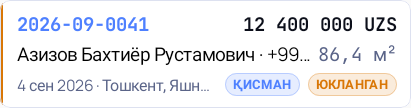
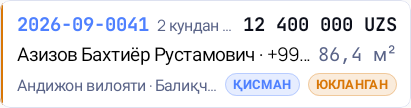
Feat(android) · give the order card's address room to breathe
The address shared the last row with the scheduled date and both chips, so
it took whatever the chips left — roughly 40% of the width. Addresses are
written by the web AddressInput as "<Viloyat>, <Tuman>, <street>", which is
routinely 40-60 characters, so the province and district were being cut off
on almost every row. Date and address were also concatenated into one string,
so the ellipsis ate the address from the right.

Move the scheduled date up beside the order number, where there is slack, and
hand the whole of the last row to the address.

formatAddressLine joins the stored parts with the card's own "·" separator,
which leaves the street last: when the row does run out of width the street
truncates and the province and district survive. Addresses written before that
widget existed carry no comma and pass through unchanged.

formatScheduleDate reads a scheduled date the way a list sorted by scheduledAt
is actually scanned — "бугун", "эртага", "3 кундан кейин" inside a week, then
an absolute date, carrying the year only when it is not the current one. The
year was previously repeated on every row, once here and once in the order
number.

OrderCard takes `now` so the screenshot baseline does not change meaning with
the day it is recorded on; the baseline address is now a canonical long one.

Changed region(s): [[0.0292, 0.7222, 0.5255, 0.8611], [0.3796, 0.1667, 0.5547, 0.3333]]

diff --git a/android/core/ui/src/test/kotlin/uz/etalon/crm/core/ui/format/FormattersTest.kt b/android/core/ui/src/test/kotlin/uz/etalon/crm/core/ui/format/FormattersTest.kt
@@ -28,4 +28,51 @@ class FormattersTest {
         assertEquals("5 сен 2026", formatDate(t))
         assertEquals("5 сен 2026, 04:30", formatDateTime(t))
     }
+
+    // 12:00 on 7 Sep 2026 in Tashkent — every case below is relative to this instant.
+    private val now = Instant.parse("2026-09-07T07:00:00Z")
+    private fun day(d: String) = Instant.parse("${d}T07:00:00Z")
+
+    @Test fun `a scheduled date inside the week reads as how soon, not which day`() {
+        assertEquals("бугун", formatScheduleDate(day("2026-09-07"), now))
+        assertEquals("эртага", formatScheduleDate(day("2026-09-08"), now))
+        assertEquals("кеча", formatScheduleDate(day("2026-09-06"), now))
+        assertEquals("3 кундан кейин", formatScheduleDate(day("2026-09-10"), now))
+        assertEquals("7 кундан кейин", formatScheduleDate(day("2026-09-14"), now))
+        assertEquals("4 кун олдин", formatScheduleDate(day("2026-09-03"), now))
+    }
+
+    @Test fun `beyond the week it is absolute, and carries the year only when it differs`() {
+        assertEquals("15 сен", formatScheduleDate(day("2026-09-15"), now))       // 8 days out
+        assertEquals("7 кун олдин", formatScheduleDate(day("2026-08-31"), now))  // 7 back is still relative…
+        assertEquals("30 авг", formatScheduleDate(day("2026-08-30"), now))       // …8 back is not
+        assertEquals("15 мар 2027", formatScheduleDate(day("2027-03-15"), now))
+        assertEquals("20 дек 2025", formatScheduleDate(day("2025-12-20"), now))
+    }
+
+    @Test fun `relative days are counted in Tashkent time, not UTC`() {
+        // 23:30 UTC on 7 Sep is already 04:30 on 8 Sep in Tashkent (+05) — tomorrow, not today.
+        assertEquals("эртага", formatScheduleDate(Instant.parse("2026-09-07T23:30:00Z"), now))
+    }
+
+    @Test fun `an address keeps province and district ahead of the street, so the street truncates first`() {
+        assertEquals(
+            "Андижон вилояти · Балиқчи тумани · Бобур кўчаси 14",
+            formatAddressLine("Андижон вилояти, Балиқчи тумани, Бобур кўчаси 14"),
+        )
+        assertEquals("Андижон вилояти · Балиқчи тумани", formatAddressLine("Андижон вилояти, Балиқчи тумани"))
+    }
+
+    @Test fun `an address written before the widget existed passes through unchanged`() {
+        assertEquals("Samarkand · Registan", formatAddressLine("Samarkand · Registan"))
+        assertEquals("Navoi · Center", formatAddressLine("Navoi · Center"))
+    }
+
+    @Test fun `a missing or empty address is nothing to render, not an empty separator`() {
+        assertEquals(null, formatAddressLine(null))
+        assertEquals(null, formatAddressLine(""))
+        assertEquals(null, formatAddressLine("   "))
+        assertEquals(null, formatAddressLine(" , , "))
+        assertEquals("Тошкент шаҳри", formatAddressLine("Тошкент шаҳри, , "))  // trailing blanks dropped
+    }
 }

diff --git a/android/feature/orders/src/main/kotlin/uz/etalon/crm/feature/orders/list/OrderCard.kt b/android/feature/orders/src/main/kotlin/uz/etalon/crm/feature/orders/list/OrderCard.kt
@@ -12,14 +12,26 @@ import androidx.compose.ui.unit.dp
 import uz.etalon.crm.core.designsystem.components.*
 import uz.etalon.crm.core.designsystem.theme.EtalonType
 import uz.etalon.crm.core.model.OrderSummary
-import uz.etalon.crm.core.ui.format.formatDate
+import uz.etalon.crm.core.ui.format.formatAddressLine
 import uz.etalon.crm.core.ui.format.formatPhone
+import uz.etalon.crm.core.ui.format.formatScheduleDate
+import java.time.Instant
 
+/**
+ * The scheduled date sits on the order-number row rather than beside the address,
+ * so the whole of the last row's free width belongs to the address. Sharing that row
+ * meant the address — the longest and most variable field on the card — was left with
+ * whatever the two chips did not take, and the canonical "<Viloyat>, <Tuman>, <street>"
+ * form is far longer than that.
+ *
+ * [now] is a parameter so a screenshot baseline is not hostage to the day it is recorded.
+ */
 @Composable
-fun OrderCard(o: OrderSummary, onClick: () -> Unit) {
+fun OrderCard(o: OrderSummary, now: Instant = Instant.now(), onClick: () -> Unit) {
     StatusStripeCard(stripe = toneColor(orderStatusTone(o.status)), onClick = onClick) {
-        Row(Modifier.fillMaxWidth(), verticalAlignment = Alignment.CenterVertically) {
-            Text(o.orderNumber, style = EtalonType.monoBody.copy(fontWeight = FontWeight.Bold), color = MaterialTheme.colorScheme.primary, modifier = Modifier.weight(1f))
+        Row(Modifier.fillMaxWidth(), verticalAlignment = Alignment.CenterVertically, horizontalArrangement = Arrangement.spacedBy(8.dp)) {
+            Text(o.orderNumber, style = EtalonType.monoBody.copy(fontWeight = FontWeight.Bold), color = MaterialTheme.colorScheme.primary)
+            Text(formatScheduleDate(o.scheduledAt, now), style = MaterialTheme.typography.bodySmall, color = MaterialTheme.colorScheme.onSurfaceVariant, modifier = Modifier.weight(1f), maxLines = 1, overflow = TextOverflow.Ellipsis)
             MoneyText(o.totalPrice, style = EtalonType.monoBody.copy(fontWeight = FontWeight.Bold))
         }
         Spacer(Modifier.height(4.dp))
@@ -29,7 +41,7 @@ fun OrderCard(o: OrderSummary, onClick: () -> Unit) {
         }
         Spacer(Modifier.height(6.dp))
         Row(Modifier.fillMaxWidth(), verticalAlignment = Alignment.CenterVertically, horizontalArrangement = Arrangement.spacedBy(8.dp)) {
-            Text(formatDate(o.scheduledAt) + (o.client.address?.let { " · $it" } ?: ""), style = MaterialTheme.typography.bodySmall, color = MaterialTheme.colorScheme.onSurfaceVariant, modifier = Modifier.weight(1f), maxLines = 1, overflow = TextOverflow.Ellipsis)
+            Text(formatAddressLine(o.client.address).orEmpty(), style = MaterialTheme.typography.bodySmall, color = MaterialTheme.colorScheme.onSurfaceVariant, modifier = Modifier.weight(1f), maxLines = 1, overflow = TextOverflow.Ellipsis)
             PaymentChip(o.paymentState)
             StatusChip(o.status)
         }

diff --git a/android/core/ui/src/main/kotlin/uz/etalon/crm/core/ui/format/Formatters.kt b/android/core/ui/src/main/kotlin/uz/etalon/crm/core/ui/format/Formatters.kt
@@ -5,6 +5,7 @@ import java.math.BigDecimal
 import java.math.RoundingMode
 import java.time.Instant
 import java.time.ZoneId
+import java.time.temporal.ChronoUnit
 
 /** House number format (spec §6.5): space thousands, comma decimal, unit suffix.
  *  Device ICU is deliberately not used — the server does the same. */
@@ -51,4 +52,39 @@ fun formatDate(t: Instant): String {
 fun formatDateTime(t: Instant): String {
     val z = t.atZone(TASHKENT)
     return "${formatDate(t)}, ${"%02d".format(z.hour)}:${"%02d".format(z.minute)}"
+}
+
+/**
+ * A scheduled date as it is read in a list sorted by `scheduledAt`: the operator's
+ * question is how soon, not which calendar day. Inside a week the answer is relative;
+ * beyond it the date is absolute, carrying the year only when it is not the current
+ * one — every row already repeats the year in its order number.
+ */
+fun formatScheduleDate(t: Instant, now: Instant = Instant.now()): String {
+    val day = t.atZone(TASHKENT).toLocalDate()
+    val today = now.atZone(TASHKENT).toLocalDate()
+    val delta = ChronoUnit.DAYS.between(today, day)
+    val dayMonth = "${day.dayOfMonth} ${UZ_MONTHS_SHORT[day.monthValue - 1]}"
+    return when {
+        delta == 0L -> "бугун"
+        delta == 1L -> "эртага"
+        delta == -1L -> "кеча"
+        delta in 2L..7L -> "$delta кундан кейин"
+        delta in -7L..-2L -> "${-delta} кун олдин"
+        day.year == today.year -> dayMonth
+        else -> "$dayMonth ${day.year}"
+    }
+}
+
+/**
+ * A client address for a single-line row. The web widget stores it as
+ * `"<Viloyat>, <Tuman>, <street>"` (src/lib/regions/index.ts), so joining the parts
+ * with the card's own "·" separator leaves the street last — when the row runs out of
+ * width it is the street that truncates and the province and district survive, which
+ * is what a delivery operator is actually scanning for. Addresses written before that
+ * widget existed carry no comma and pass through unchanged.
+ */
+fun formatAddressLine(raw: String?): String? {
+    val parts = raw?.split(',')?.map { it.trim() }?.filter { it.isNotEmpty() }.orEmpty()
+    return if (parts.isEmpty()) null else parts.joinToString(" · ")
 }

diff --git a/android/feature/orders/src/test/kotlin/uz/etalon/crm/feature/orders/OrderCardScreenshotTest.kt b/android/feature/orders/src/test/kotlin/uz/etalon/crm/feature/orders/OrderCardScreenshotTest.kt
@@ -25,16 +25,22 @@ import java.time.Instant
 class OrderCardScreenshotTest {
     @get:Rule val rule = createComposeRule()
 
+    // A canonical "<Viloyat>, <Tuman>, <street>" address — the long shape the card has to
+    // survive, not the short legacy one.
     private val o = OrderSummary(
         "o1", "2026-09-0041", OrderStatus.LOADED, PaymentState.PARTIALLY_PAID,
         Money.parse("12400000.00"), Money.parse("6000000.00"),
         BigDecimal("86.400"), 210, 10,
         Instant.parse("2026-09-04T00:00:00Z"), Instant.parse("2026-09-01T00:00:00Z"),
-        ClientRef("c", "Азизов Бахтиёр Рустамович", "998901112233", "Тошкент, Яшнобод"),
+        ClientRef("c", "Азизов Бахтиёр Рустамович", "998901112233", "Андижон вилояти, Балиқчи тумани, Бобур кўчаси 14"),
     )
 
+    // Fixed, so the baseline does not change meaning with the day it is recorded on.
+    // Two days before the order's scheduled date, i.e. the card renders "2 кундан кейин".
+    private val now = Instant.parse("2026-09-02T00:00:00Z")
+
     private fun shoot(name: String, dark: Boolean) {
-        rule.setContent { EtalonTheme(darkTheme = dark) { OrderCard(o) {} } }
+        rule.setContent { EtalonTheme(darkTheme = dark) { OrderCard(o, now) {} } }
         rule.onRoot().captureRoboImage("screenshots/order_card_$name.png")
     }
 
